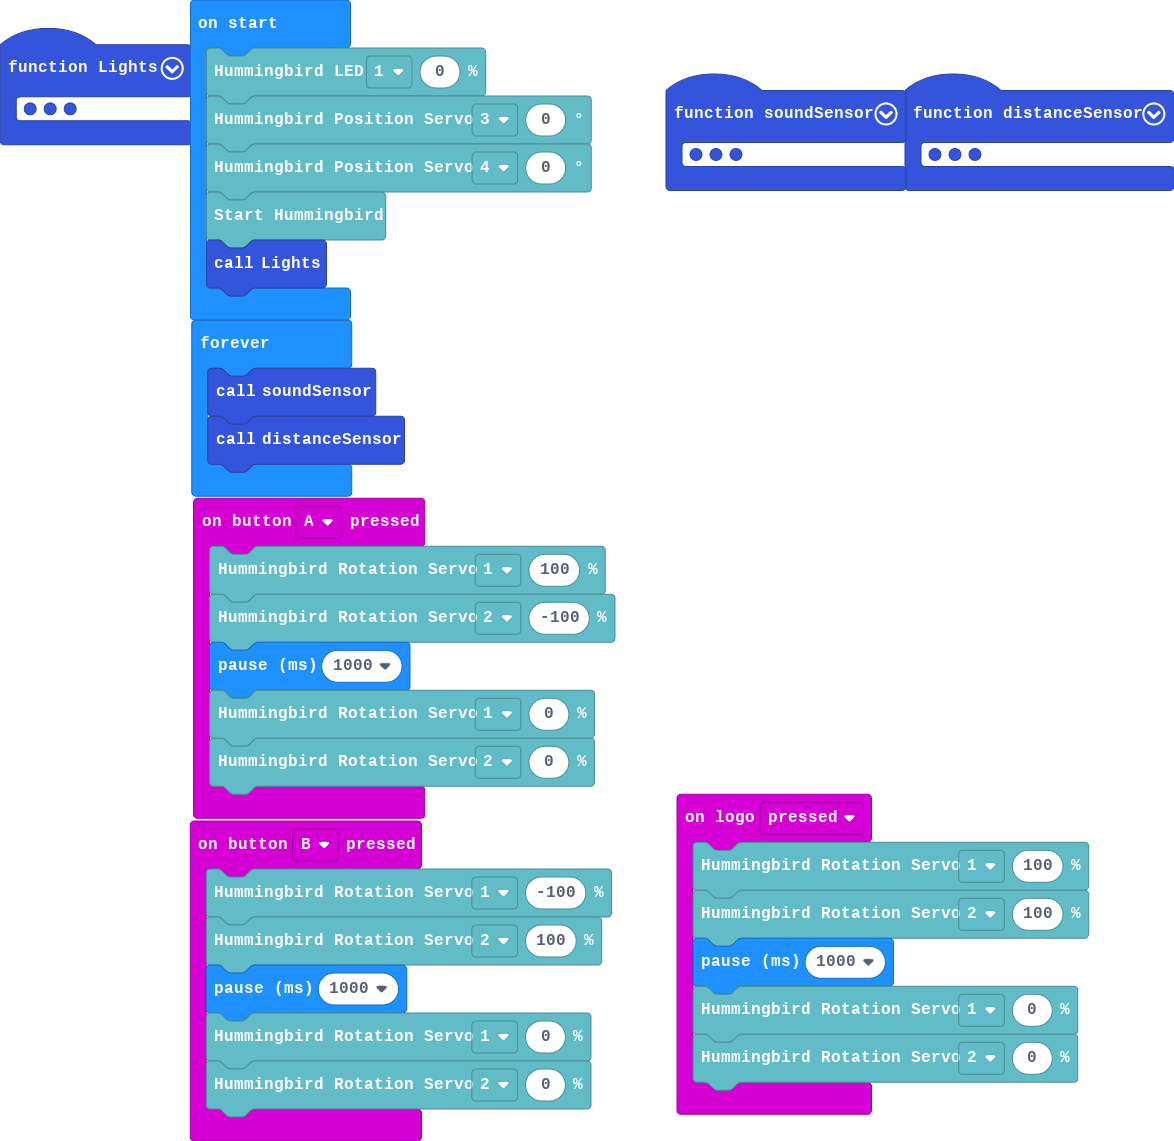
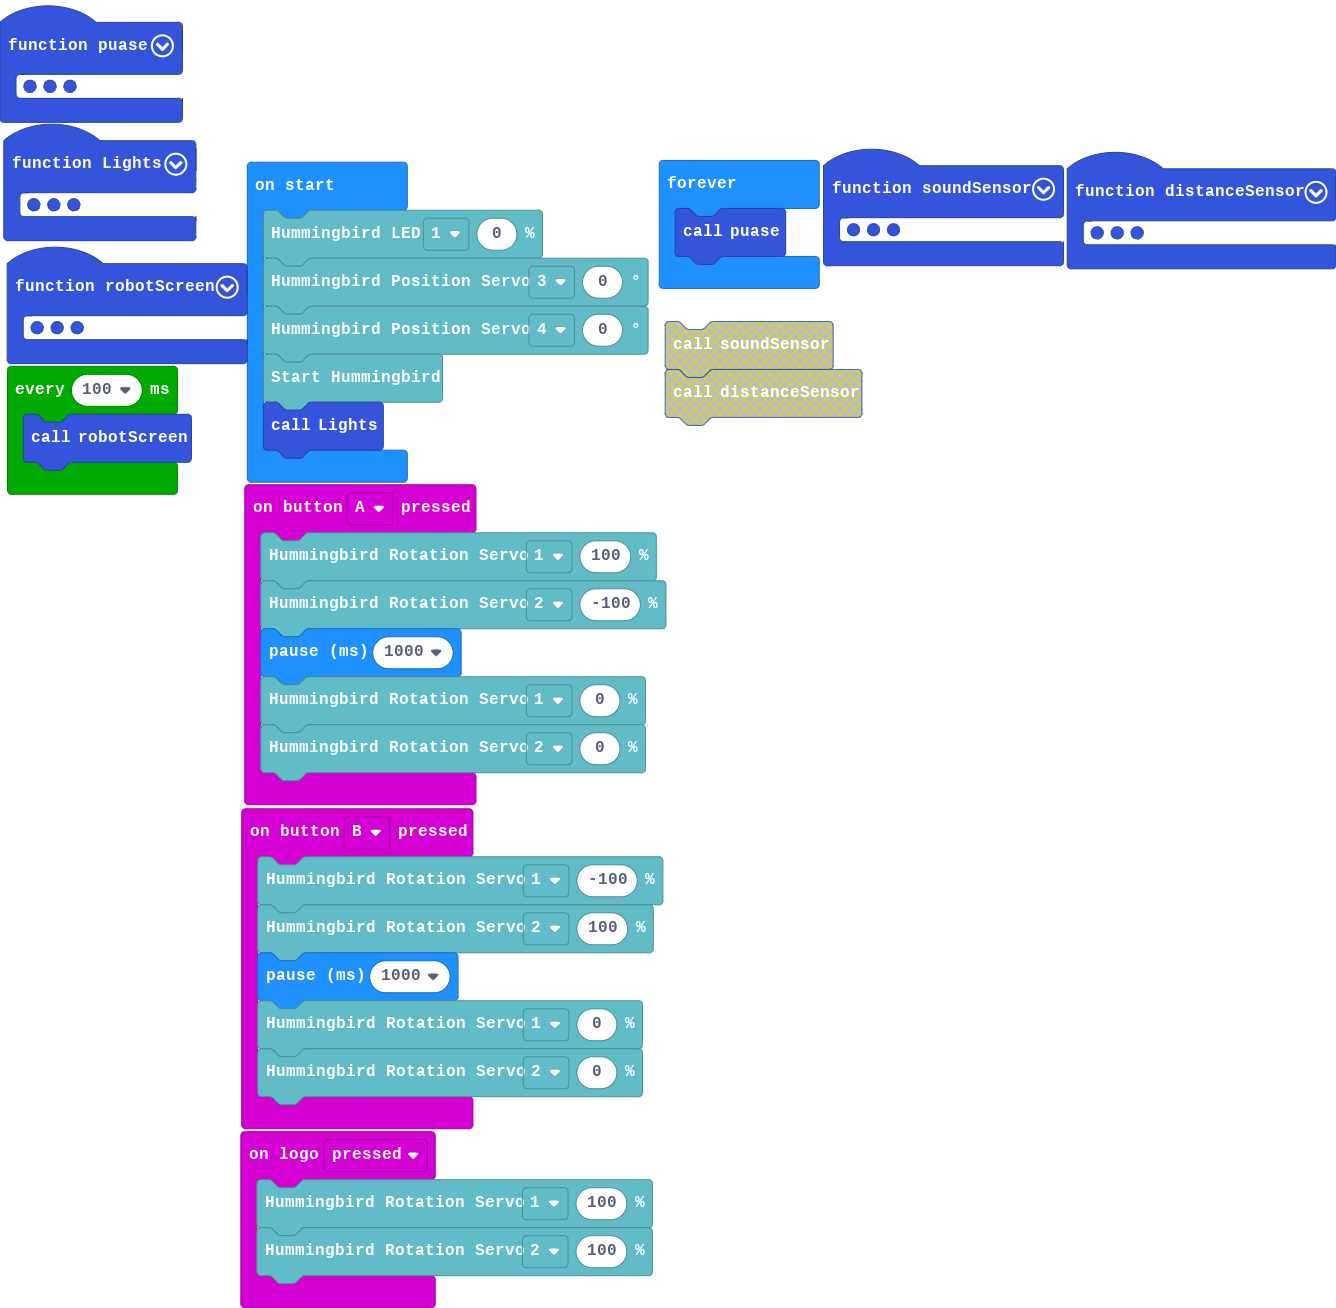
Update main.blocks, main.ts

diff --git a/main.ts b/main.ts
@@ -18,6 +18,50 @@ function Lights () {
     175,
     55
     )
+}
+function robotScreen () {
+    basic.showLeds(`
+        . # # # .
+        # . . . #
+        # . # . #
+        # . . . #
+        . # # # .
+        `)
+    basic.showLeds(`
+        . . . . .
+        . # # # .
+        # . . . #
+        # . # . #
+        . # # # .
+        `)
+    basic.showLeds(`
+        . . . . .
+        . . . . .
+        . . . . .
+        # # # # #
+        . # # # .
+        `)
+    basic.showLeds(`
+        . . . . .
+        . . . . .
+        . . . . .
+        # . . . #
+        . # # # .
+        `)
+    basic.showLeds(`
+        . . . . .
+        . . . . .
+        . . . . .
+        # # # # #
+        . # # # .
+        `)
+    basic.showLeds(`
+        . . . . .
+        . # # # .
+        # . . . #
+        # . # . #
+        . # # # .
+        `)
     basic.showLeds(`
         . # # # .
         # . . . #
@@ -33,8 +77,23 @@ input.onButtonPressed(Button.B, function () {
     hummingbird.setRotationServo(FourPort.One, 0)
     hummingbird.setRotationServo(FourPort.Two, 0)
 })
+function puase () {
+    hummingbird.setTriLED(
+    TwoPort.One,
+    0,
+    0,
+    0
+    )
+    hummingbird.setTriLED(
+    TwoPort.One,
+    0,
+    0,
+    0
+    )
+    basic.pause(100)
+}
 function soundSensor () {
-    if (hummingbird.getSensor(SensorType.Sound, ThreePort.Two) > 99) {
+    if (hummingbird.getSensor(SensorType.Sound, ThreePort.Two) >= 80) {
         hummingbird.setPositionServo(FourPort.Three, 180)
         hummingbird.setPositionServo(FourPort.Four, 180)
         basic.pause(100)
@@ -46,15 +105,14 @@ function soundSensor () {
 input.onLogoEvent(TouchButtonEvent.Pressed, function () {
     hummingbird.setRotationServo(FourPort.One, 100)
     hummingbird.setRotationServo(FourPort.Two, 100)
-    basic.pause(1000)
-    hummingbird.setRotationServo(FourPort.One, 0)
-    hummingbird.setRotationServo(FourPort.Two, 0)
 })
 function distanceSensor () {
-    if (hummingbird.getSensor(SensorType.Distance, ThreePort.One) < 1) {
+    if (hummingbird.getSensor(SensorType.Distance, ThreePort.One) <= 5) {
         hummingbird.setRotationServo(FourPort.One, -100)
         hummingbird.setRotationServo(FourPort.Two, -100)
-        hummingbird.setLED(ThreePort.One, 100)
+        basic.pause(5000)
+        hummingbird.setRotationServo(FourPort.One, 0)
+        hummingbird.setRotationServo(FourPort.Two, 0)
     }
 }
 hummingbird.setLED(ThreePort.One, 0)
@@ -63,6 +121,8 @@ hummingbird.setPositionServo(FourPort.Four, 0)
 hummingbird.startHummingbird()
 Lights()
 basic.forever(function () {
-    soundSensor()
-    distanceSensor()
+    puase()
+})
+loops.everyInterval(100, function () {
+    robotScreen()
 })
